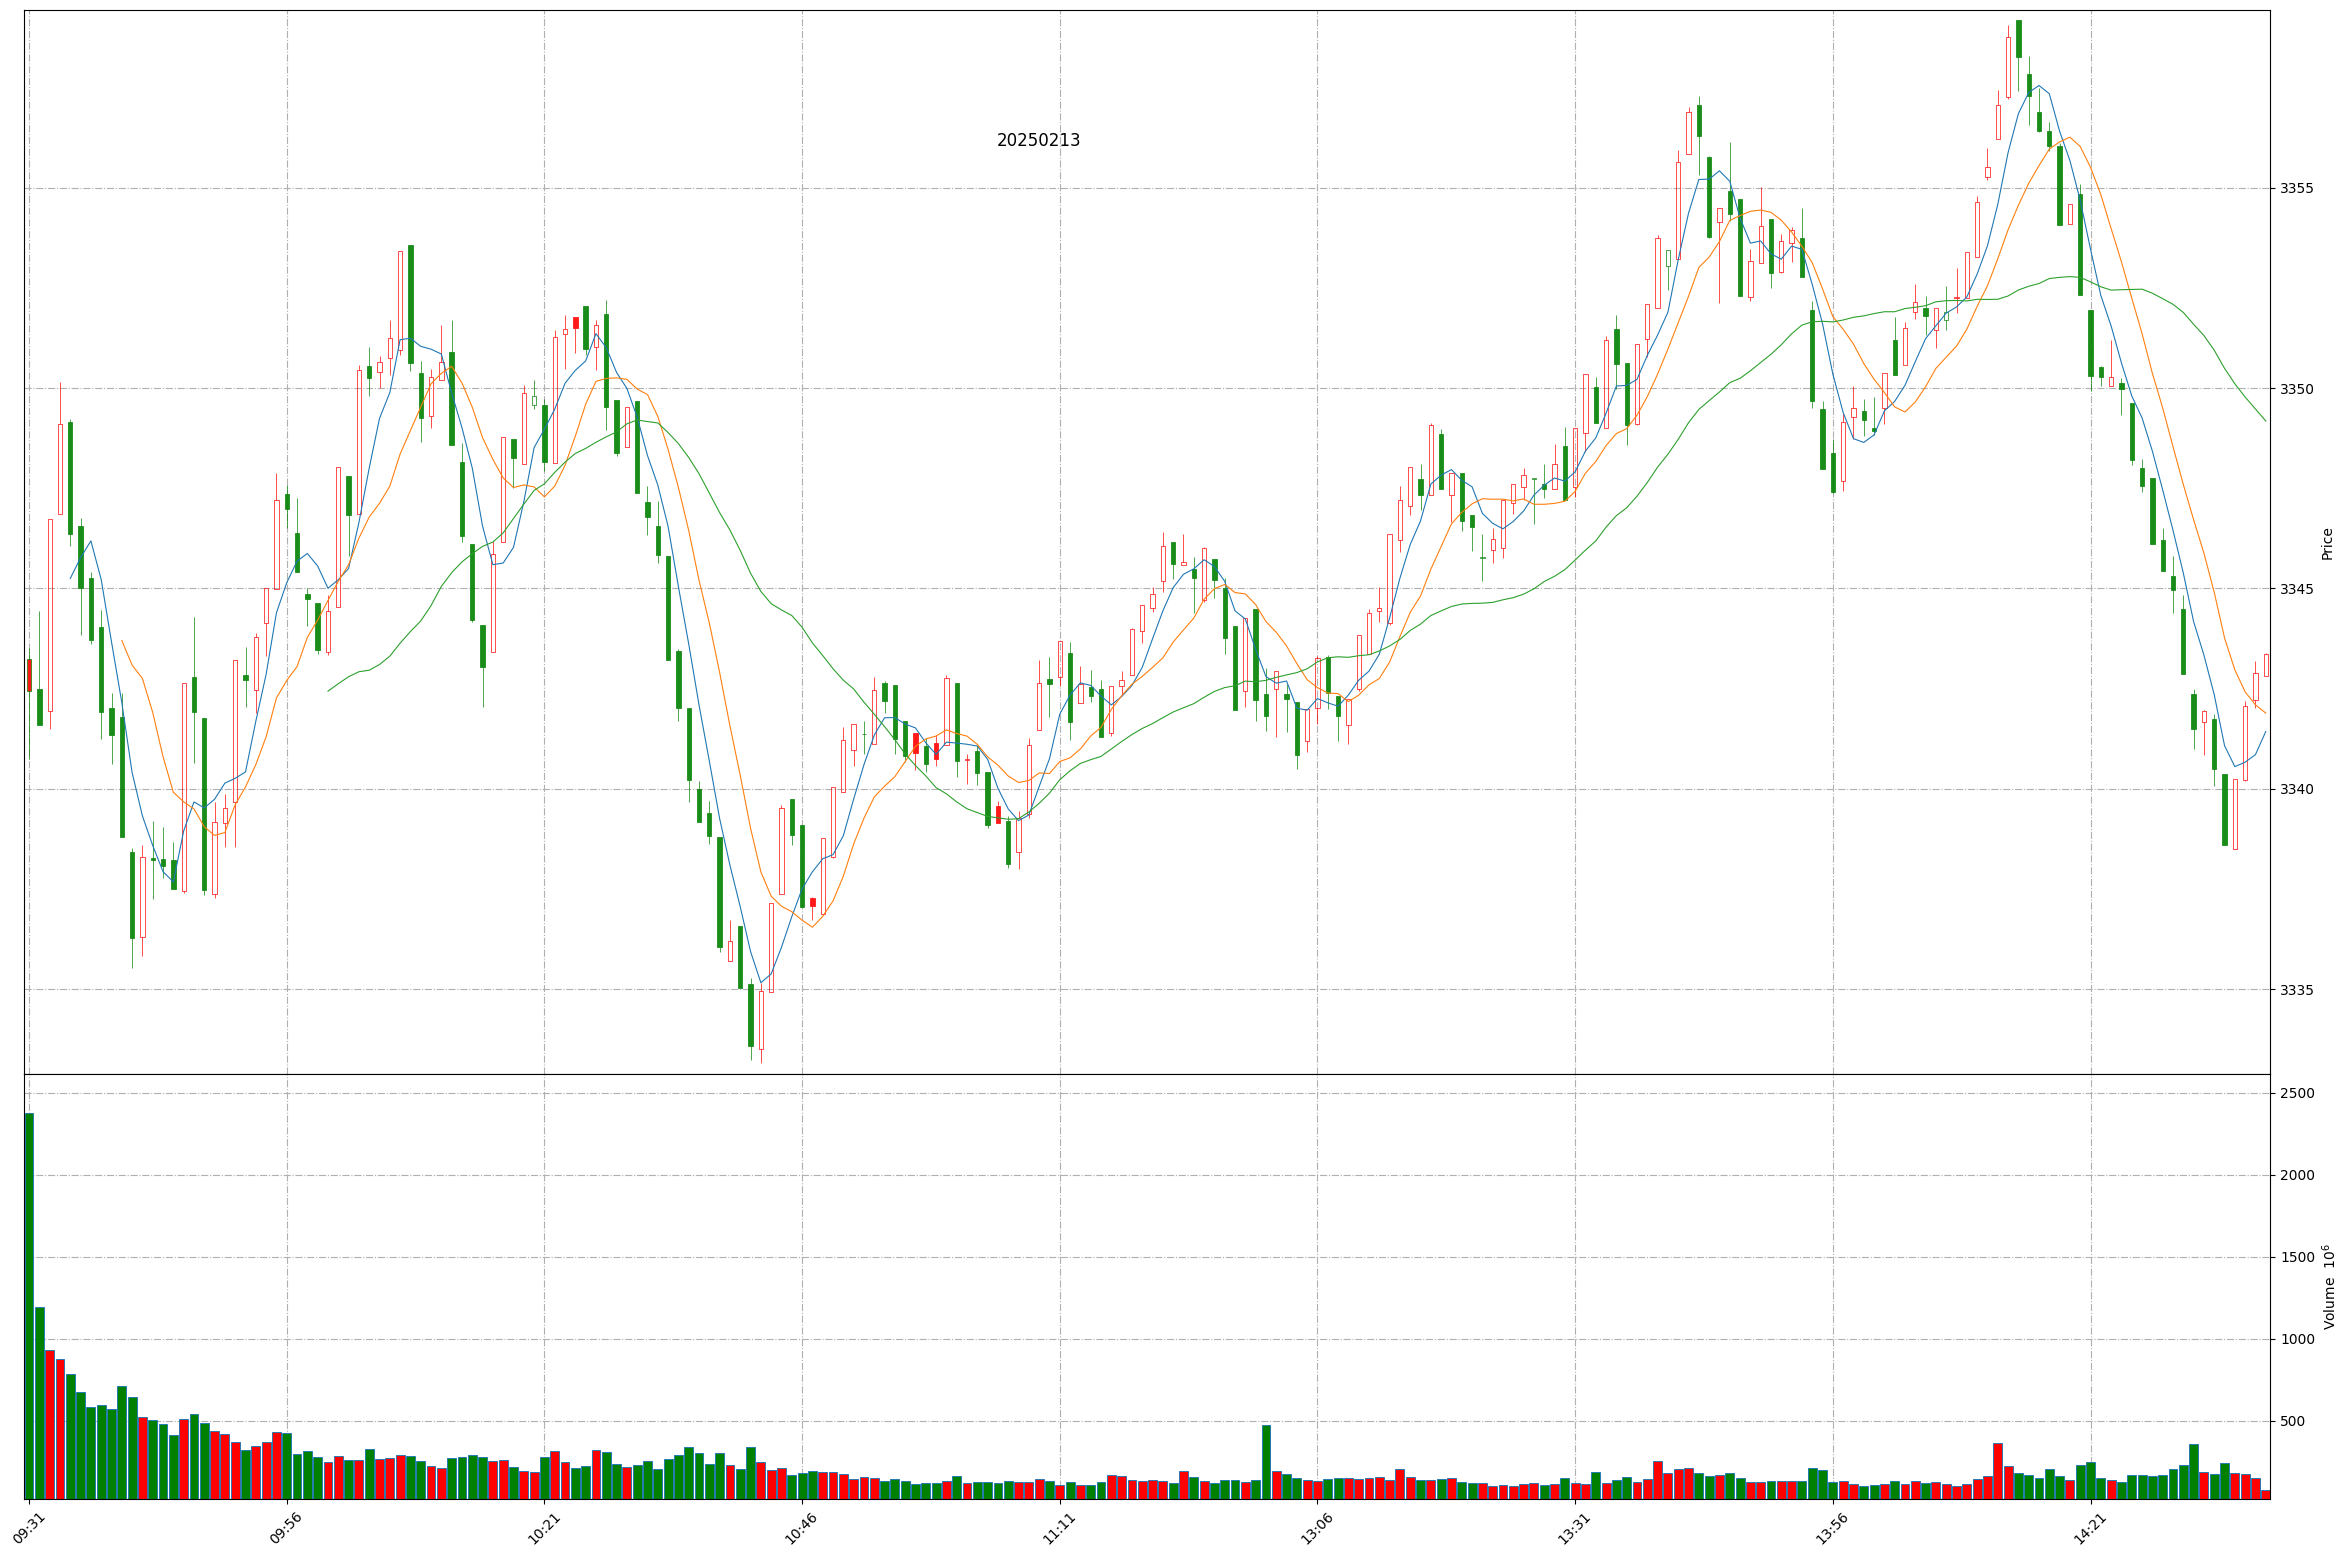
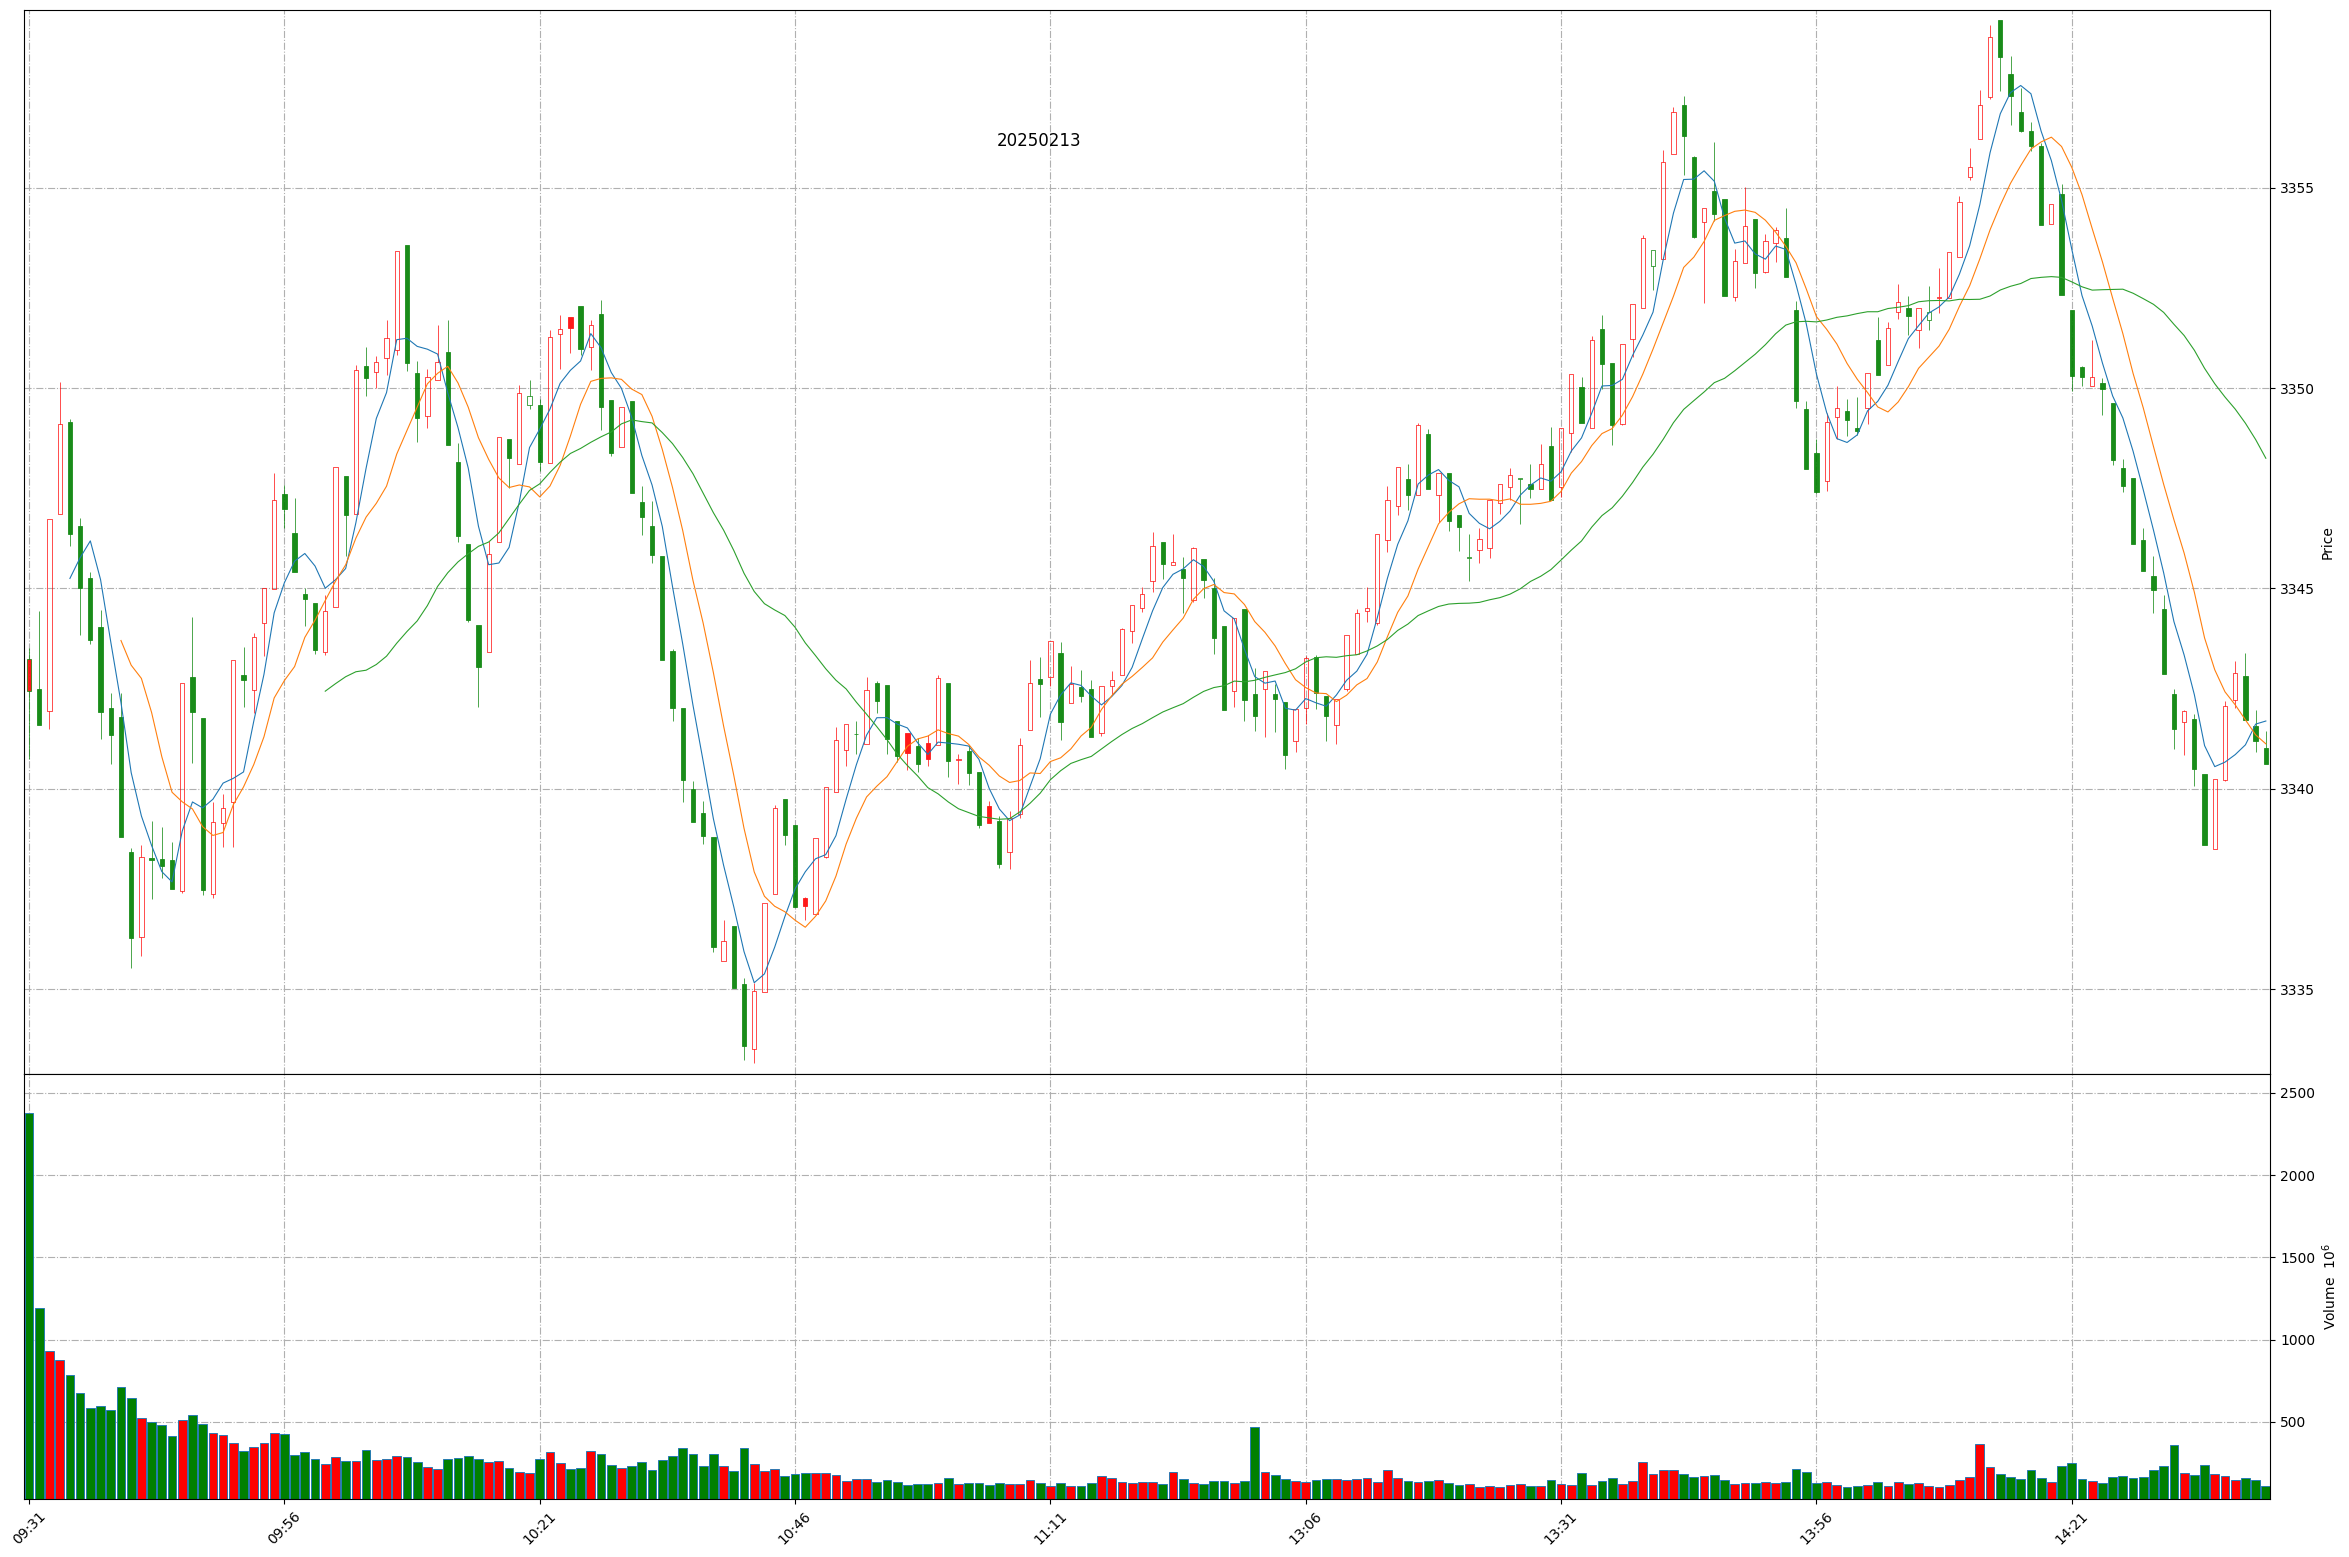
Github action update at 2025-02-13 14:40:00.

diff --git a/README.md b/README.md
@@ -1,11 +1,11 @@
 
 # Daily-A-share-market-quotes 每日 A 股指数（5min 更新）- 20250213
 
-### 上证指数 20250213 14:37
+### 上证指数 20250213 14:40
 ![](./fig/2025/2/20250213-sh000001.png)
 
-### 深证成指 20250213 14:37
+### 深证成指 20250213 14:40
 ![](./fig/2025/2/20250213-sz399001.png)
 
-### 北证50 20250213 14:37
+### 北证50 20250213 14:40
 ![](./fig/2025/2/20250213-bj899050.png)
